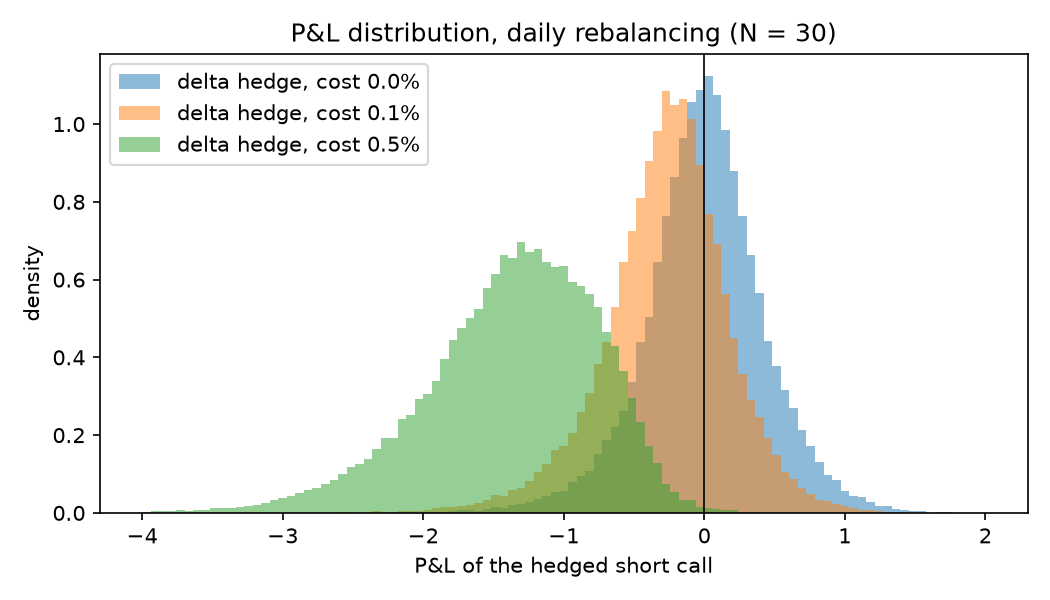
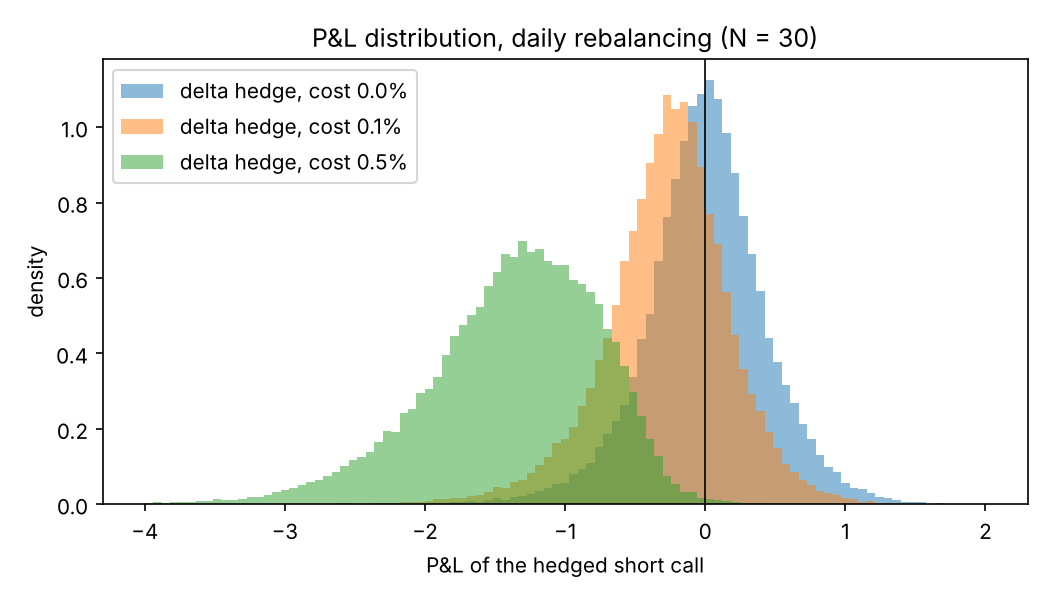
Combine delta hedging plots into one figure

diff --git a/experiments/02_delta_hedging.py b/experiments/02_delta_hedging.py
@@ -11,8 +11,8 @@ N times until maturity. Shows:
 Run from the repository root:
     python experiments/02_delta_hedging.py
 
-Saves figures/delta_hedging_error.png, figures/delta_hedging_costs.png
-and figures/delta_hedging_pnl.png, and prints a Markdown table.
+Saves figures/delta_hedging.png (hedging error, risk vs rebalancing frequency
+and P&L distribution in one figure), and prints a Markdown table.
 """
 
 from pathlib import Path
@@ -77,49 +77,45 @@ def main():
     FIGURES.mkdir(exist_ok=True)
     n = np.array(N_STEPS_LIST)
 
-    # --- Figure 1: hedging error without costs ---------------------------
+    # --- One figure with three panels -----------------------------------
+    # Left: without costs, the hedging error falls like 1/sqrt(N).
+    # Middle: with costs, the risk first falls and then rises again.
+    # Right: at daily rebalancing, costs shift and widen the P&L distribution.
     std_no_cost = np.array([s["std"] for s in results[0.0]])
     reference = std_no_cost[0] * np.sqrt(n[0] / n)
 
-    fig, ax = plt.subplots(figsize=(6, 4))
-    ax.loglog(n, std_no_cost, "o-", label="std of hedging P&L")
-    ax.loglog(n, reference, ":", color="grey", label=r"$\propto 1/\sqrt{N}$")
-    ax.set_xlabel("number of rebalancing steps N")
-    ax.set_ylabel("standard deviation of P&L")
-    ax.set_title("Delta hedging error without transaction costs")
-    ax.legend()
-    ax.grid(True, which="both", alpha=0.3)
-    fig.tight_layout()
-    fig.savefig(FIGURES / "delta_hedging_error.png", dpi=150)
-    plt.close(fig)
+    fig, (ax_left, ax_mid, ax_right) = plt.subplots(1, 3, figsize=(17, 4.8))
 
-    # --- Figure 2: risk vs rebalancing frequency for each cost level -----
-    fig, ax = plt.subplots(figsize=(6, 4))
+    ax_left.loglog(n, std_no_cost, "o-", label="std of hedging P&L")
+    ax_left.loglog(n, reference, ":", color="grey", label=r"$\propto 1/\sqrt{N}$")
+    ax_left.set_xlabel("number of rebalancing steps N")
+    ax_left.set_ylabel("standard deviation of P&L")
+    ax_left.set_title("No costs: error falls like 1/√N")
+    ax_left.legend()
+    ax_left.grid(True, which="both", alpha=0.3)
+
     for c in COSTS:
         cvars = [s["cvar"] for s in results[c]]
-        ax.semilogx(n, cvars, "o-", label=f"cost {c:.1%}")
-    ax.set_xlabel("number of rebalancing steps N")
-    ax.set_ylabel(f"CVaR {ALPHA:.0%} of loss")
-    ax.set_title("Delta hedging: risk vs rebalancing frequency")
-    ax.legend()
-    ax.grid(True, which="both", alpha=0.3)
-    fig.tight_layout()
-    fig.savefig(FIGURES / "delta_hedging_costs.png", dpi=150)
-    plt.close(fig)
+        ax_mid.semilogx(n, cvars, "o-", label=f"cost {c:.1%}")
+    ax_mid.set_xlabel("number of rebalancing steps N")
+    ax_mid.set_ylabel(f"CVaR {ALPHA:.0%} of loss")
+    ax_mid.set_title("With costs: more trading is not always better")
+    ax_mid.legend()
+    ax_mid.grid(True, which="both", alpha=0.3)
 
-    # --- Figure 3: P&L distributions at daily rebalancing ----------------
     bins = np.linspace(-4, 2, 100)
-    fig, ax = plt.subplots(figsize=(7, 4))
     for c in COSTS:
-        ax.hist(pnl_for_histogram[c], bins=bins, alpha=0.5, density=True,
-                histtype="stepfilled", label=f"delta hedge, cost {c:.1%}")
-    ax.axvline(0, color="black", linewidth=0.8)
-    ax.set_xlabel("P&L of the hedged short call")
-    ax.set_ylabel("density")
-    ax.set_title("P&L distribution, daily rebalancing (N = 30)")
-    ax.legend()
+        ax_right.hist(pnl_for_histogram[c], bins=bins, alpha=0.5, density=True,
+                      histtype="stepfilled", label=f"cost {c:.1%}")
+    ax_right.axvline(0, color="black", linewidth=0.8)
+    ax_right.set_xlabel("P&L of the hedged short call")
+    ax_right.set_ylabel("density")
+    ax_right.set_title("P&L distribution, daily rebalancing (N = 30)")
+    ax_right.legend()
+
+    fig.suptitle("Black–Scholes delta hedging of a short one-month at-the-money call")
     fig.tight_layout()
-    fig.savefig(FIGURES / "delta_hedging_pnl.png", dpi=150)
+    fig.savefig(FIGURES / "delta_hedging.png", dpi=150)
     plt.close(fig)
 
     print(f"\nSaved figures to {FIGURES}/")

diff --git a/README.md b/README.md
@@ -63,13 +63,13 @@ mean error, which smooth out as the number of seeds grows. At 100 seeds the mean
 
 Hedging a short one-month at-the-money call with the Black–Scholes delta.
 Without costs, the hedging error falls like 1/√N in the number of rebalancing steps.
-With proportional transaction costs, more frequent rebalancing eventually *increases*
-risk: the CVaR is lowest at an intermediate frequency (around N = 100 for 0.1% costs,
-N = 20 for 0.5%). Plain delta hedging has no way to trade off hedging error against
-costs, which motivates cost-aware strategies and deep hedging.
+With transaction costs, the risk (CVaR) first falls and then rises again with the number of
+rebalancing steps: more trading reduces the hedging error but costs more. We see there is 
+an optimal rebalancing frequency (N=100 for cost 0.1%, N=20 for cost 0.5%).
+The P&L distribution gets wider (larger standard devation), skewness gets more negative and the 
+mean shifts to the left (more negative) with higher transaction costs. 
 
-![Delta hedging error](figures/delta_hedging_error.png)
-![Risk vs rebalancing frequency](figures/delta_hedging_costs.png)
+![Delta hedging: error, risk vs rebalancing frequency and P&L distribution](figures/delta_hedging.png)
 
 ### Cost-aware hedging: Leland and Whalley–Wilmott
 
